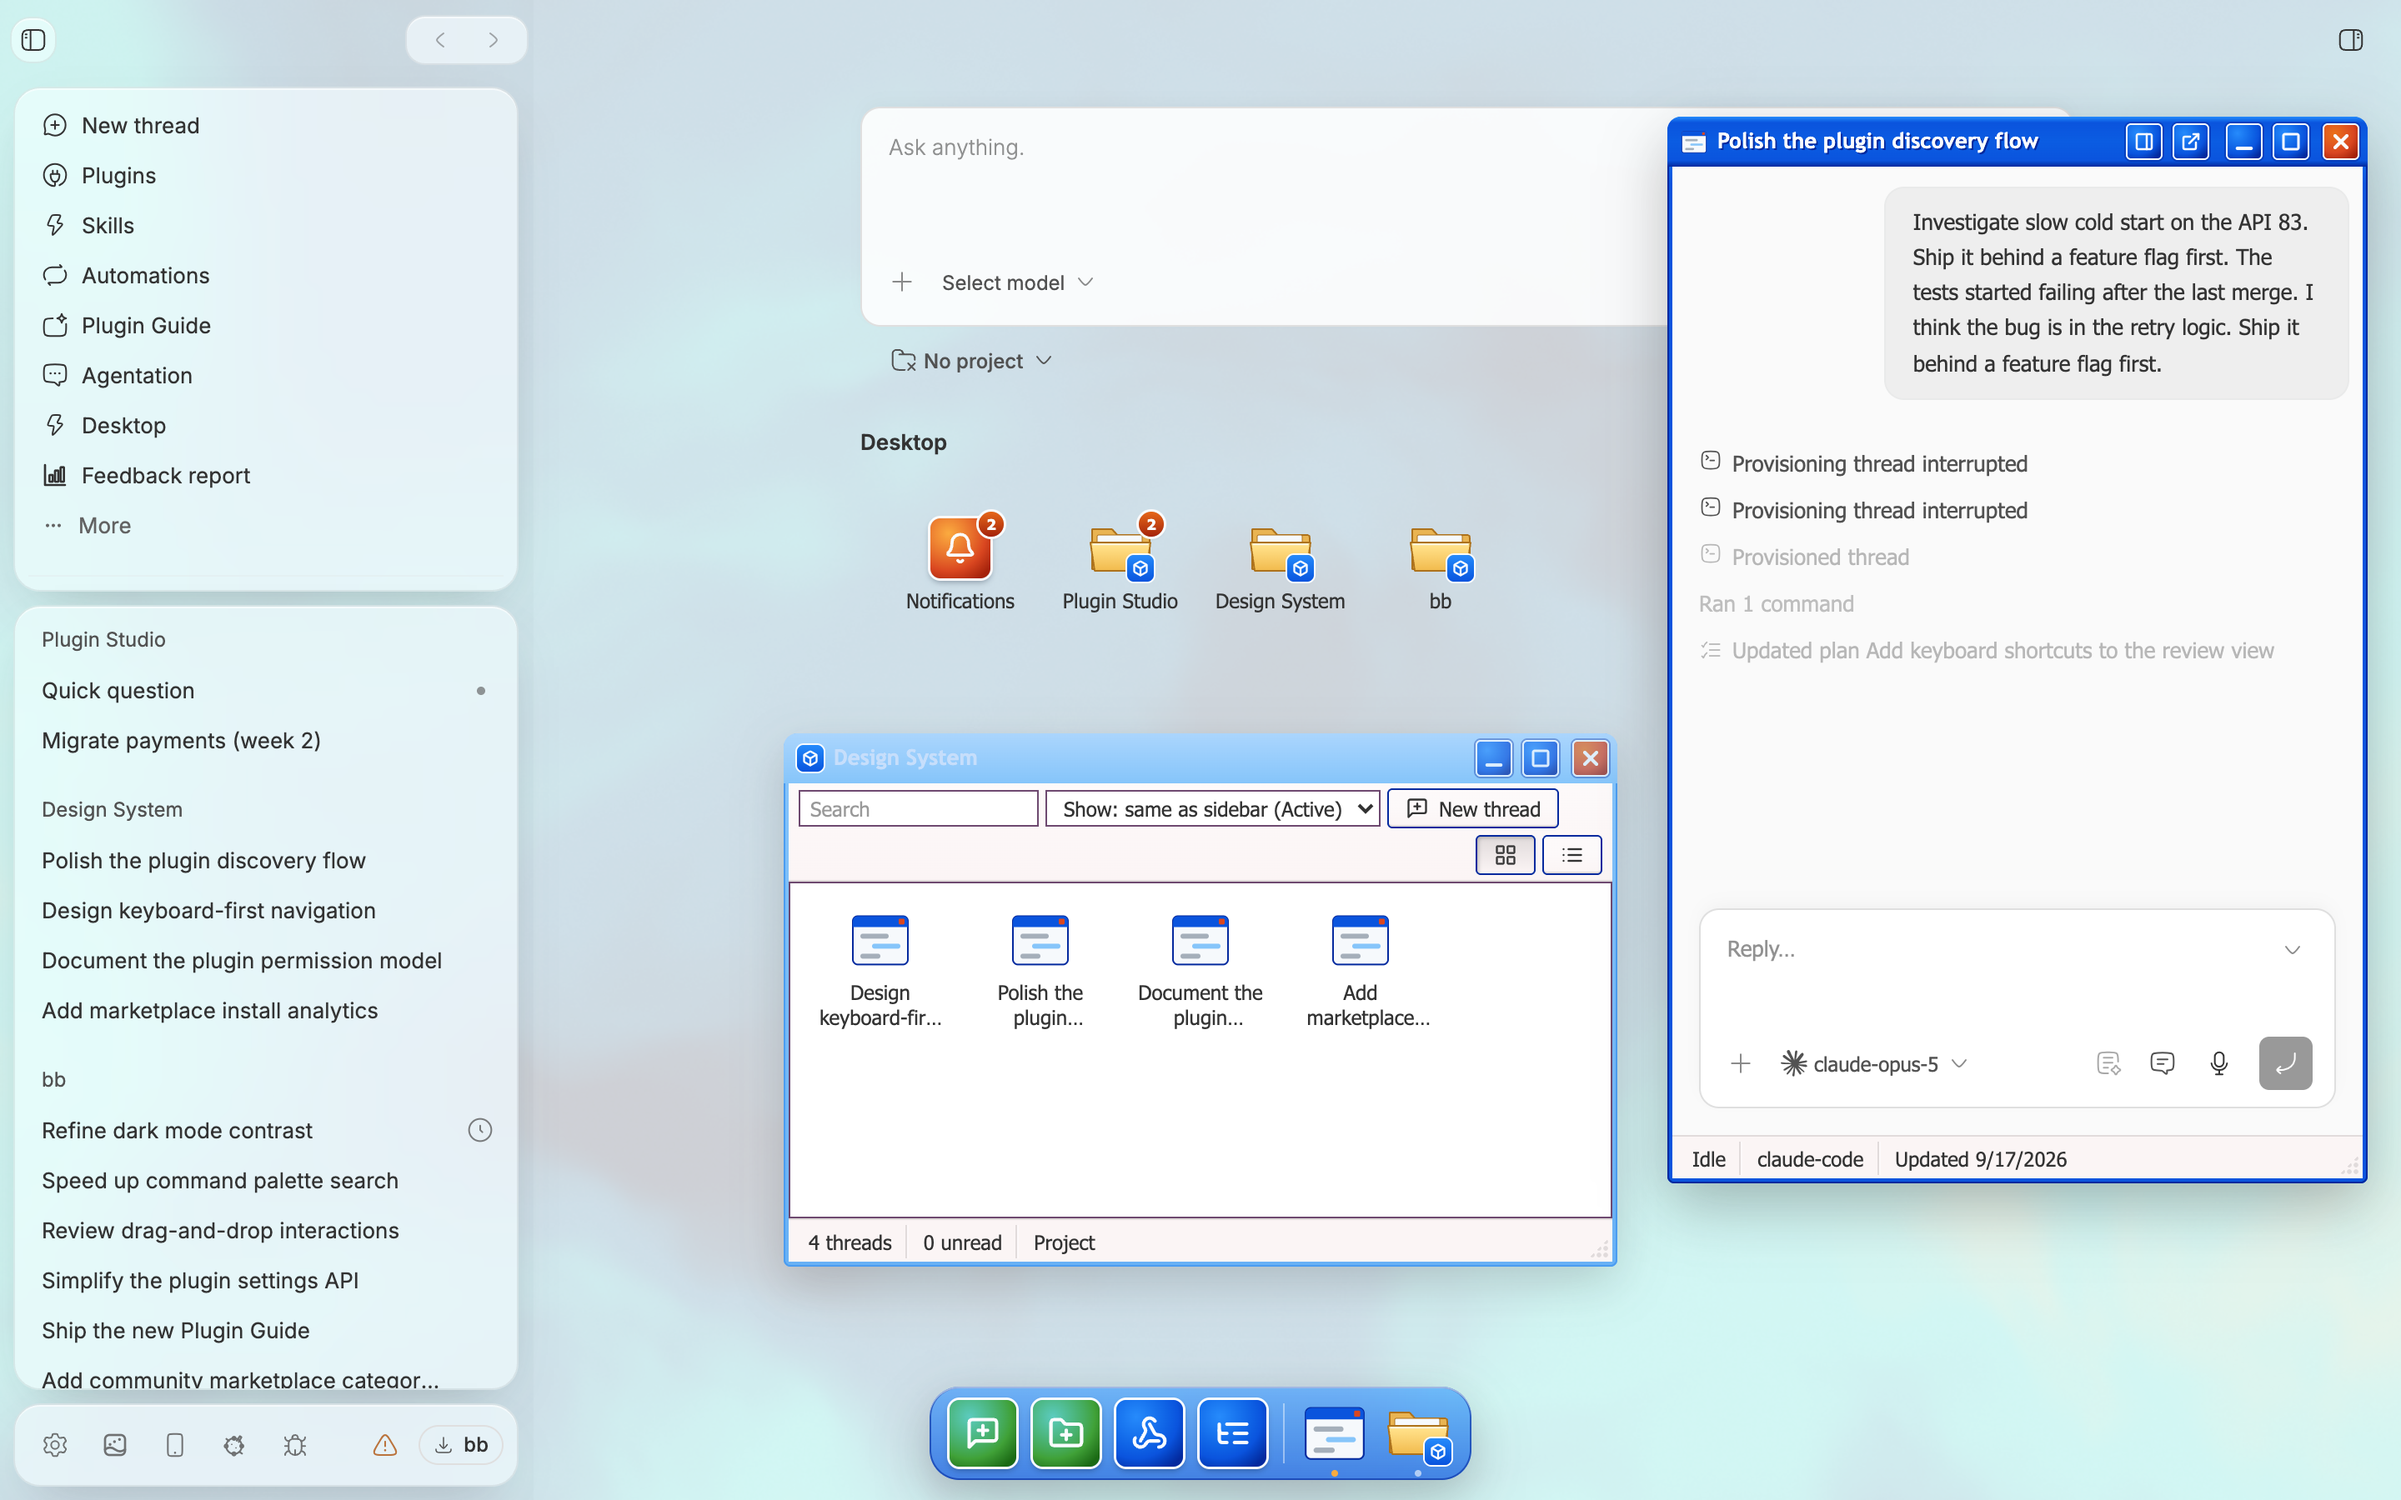
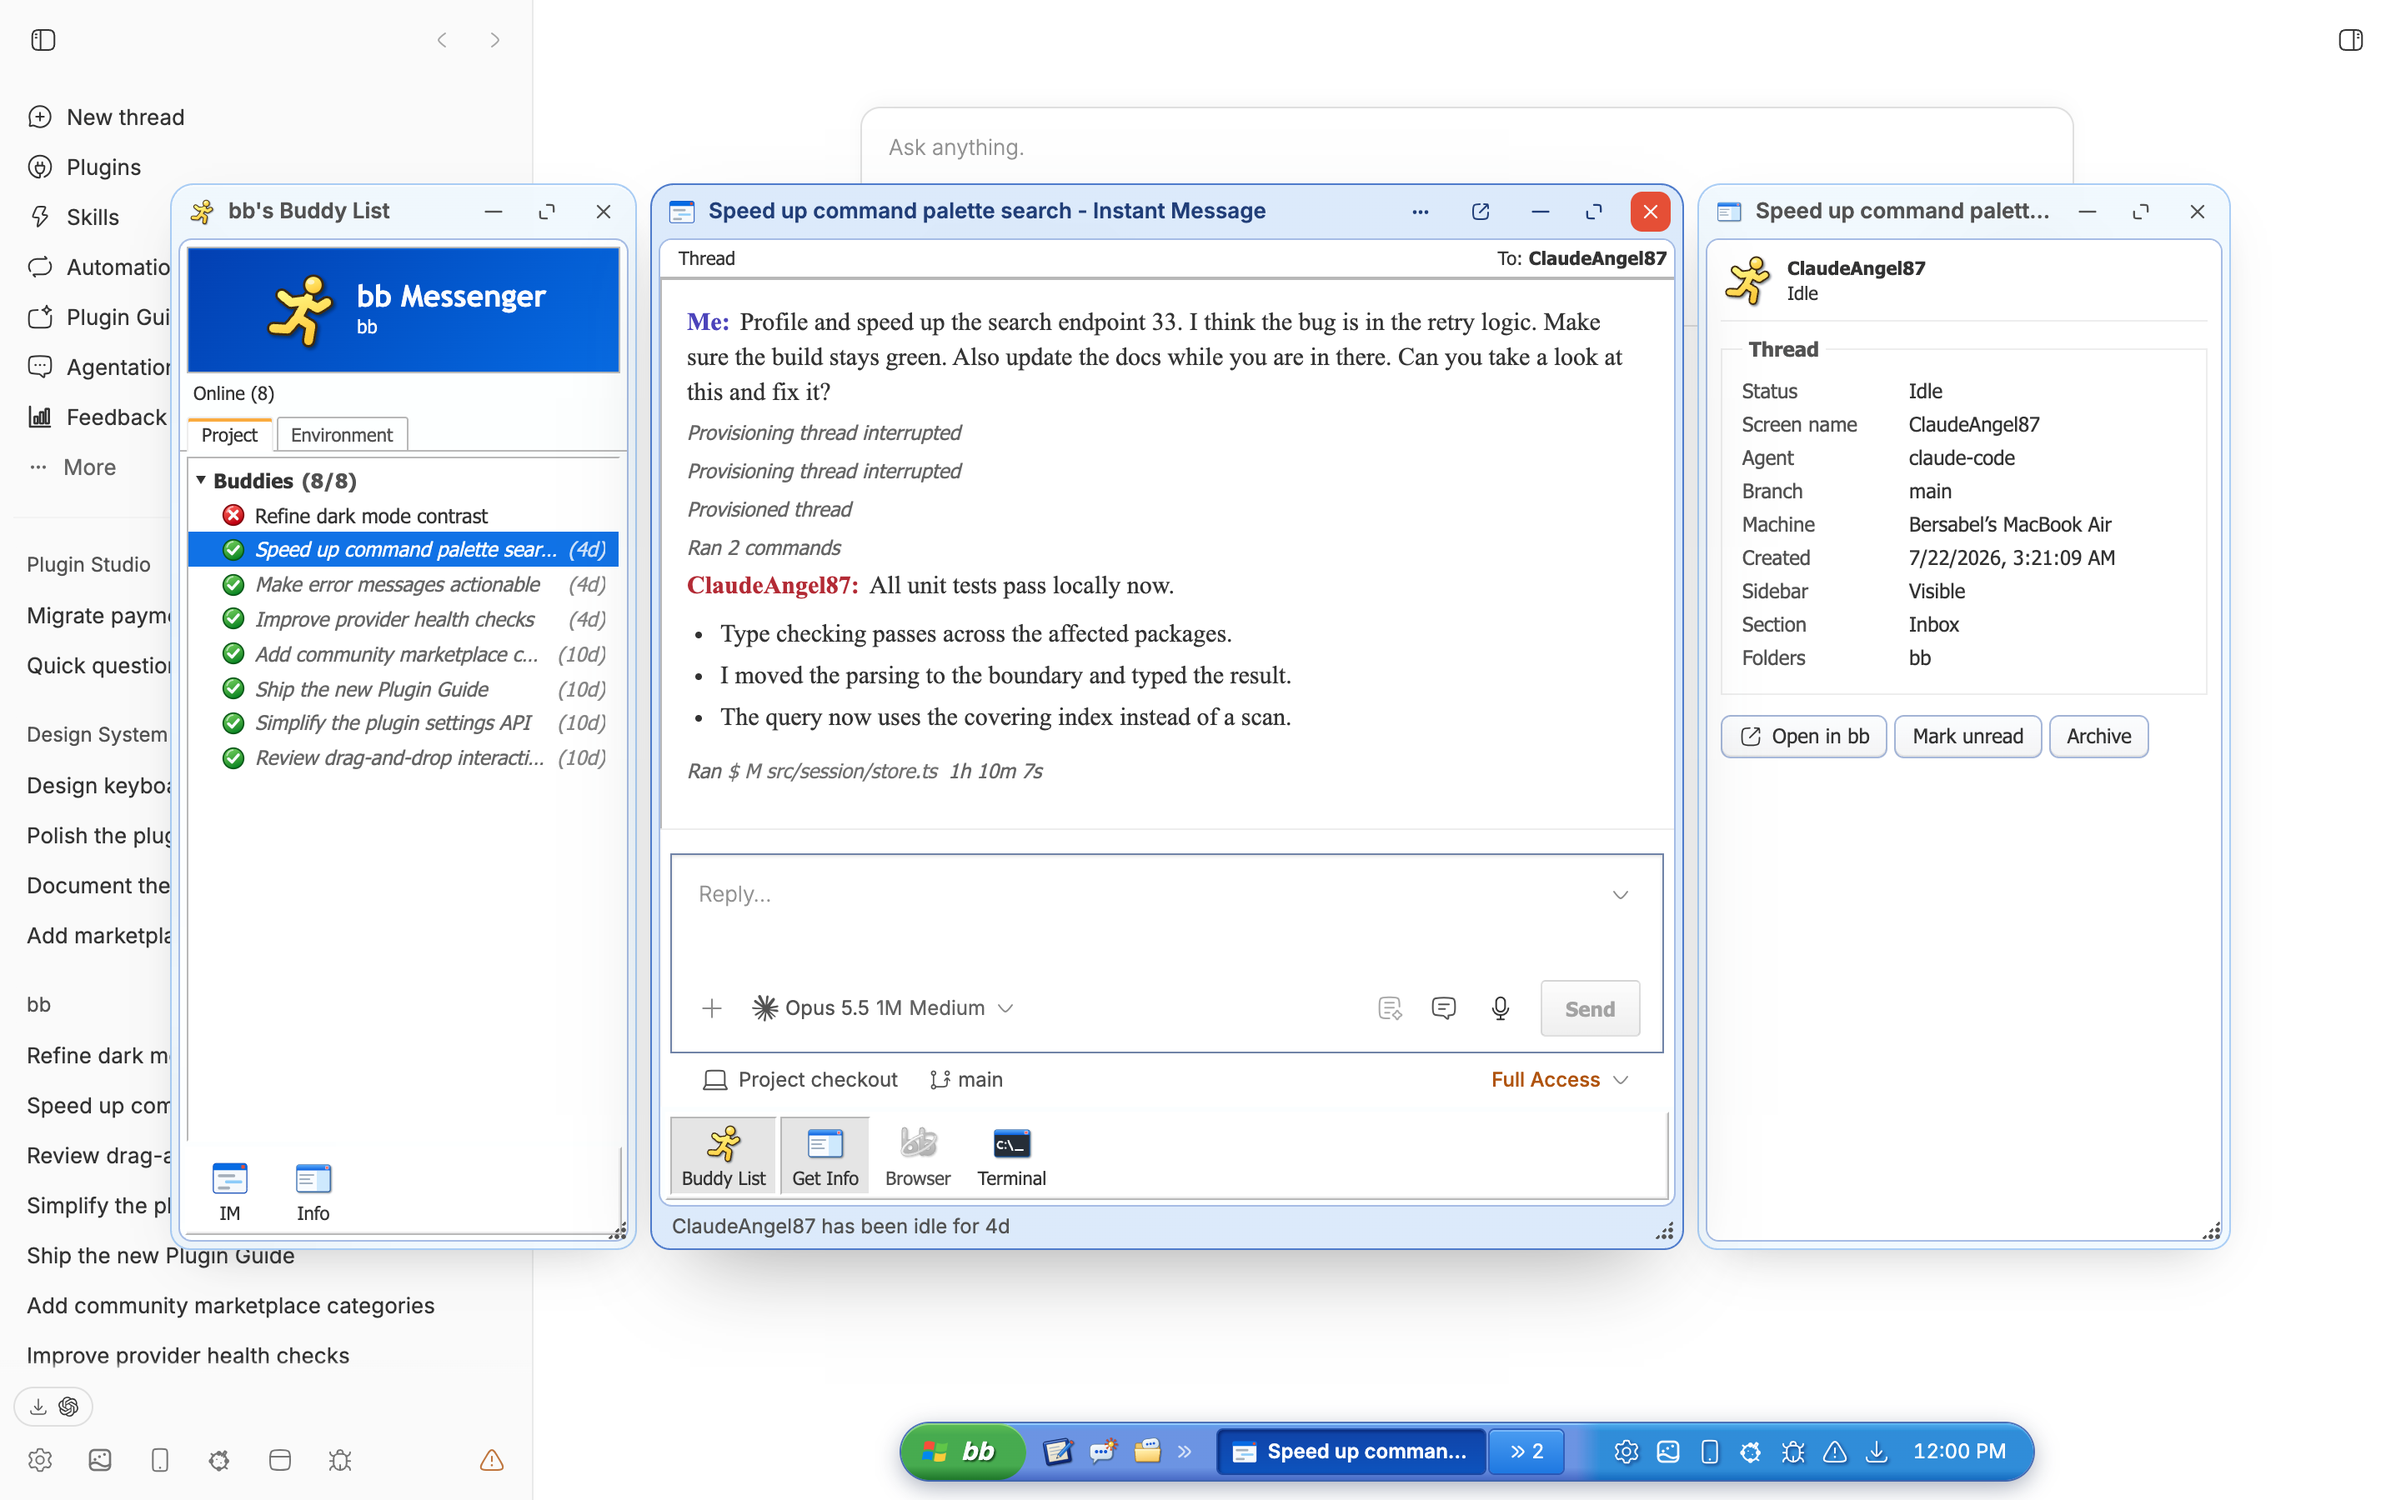
Desktop: refresh the catalog entry and screenshots

diff --git a/README.md b/README.md
@@ -162,9 +162,11 @@ Install: `bb plugin install git:https://github.com/brsbl/bb-plugins.git@plugin/t
 
 ### Desktop
 
-Turns bb's new-thread page into a desktop for your agents: folders that mirror your sidebar sections or projects, a finder for each folder, and resizable thread windows with detached detail panels.
+Turns bb's new-thread page into a Windows XP desktop for your agents. Folders mirror your sidebar, threads open as instant-message windows beside a Buddy List of their project, and a taskbar and Start menu launch XP programs and games, including a real terminal and in-app browser.
 
-![Desktop with a folder finder, a thread window, and its detached details panel](plugins/desktop/docs/screenshot.png)
+![Desktop with a thread open as an Instant Message window between its project's Buddy List and its Buddy Info](plugins/desktop/docs/screenshot.png)
+
+![The Start menu opened from the bb button, listing bb Explorer, Terminal, Paint, and the games](plugins/desktop/docs/start-menu.png)
 
 [Source](plugins/desktop) · [README](plugins/desktop/README.md)
 

diff --git a/plugins/desktop/README.md b/plugins/desktop/README.md
@@ -2,7 +2,9 @@
 
 Desktop turns bb's new-thread page into an operating system for your agents. Threads live in folders and open in draggable windows. The page itself is the wallpaper, so it pairs well with the Ambient plugin.
 
-![Desktop with a folder finder, a thread window, and its detached details panel](docs/screenshot.png)
+![Desktop with a thread open as an Instant Message window between its project's Buddy List and its Buddy Info](docs/screenshot.png)
+
+![The Start menu opened from the bb button, listing bb Explorer, Terminal, Paint, and the games](docs/start-menu.png)
 
 ## Use
 
